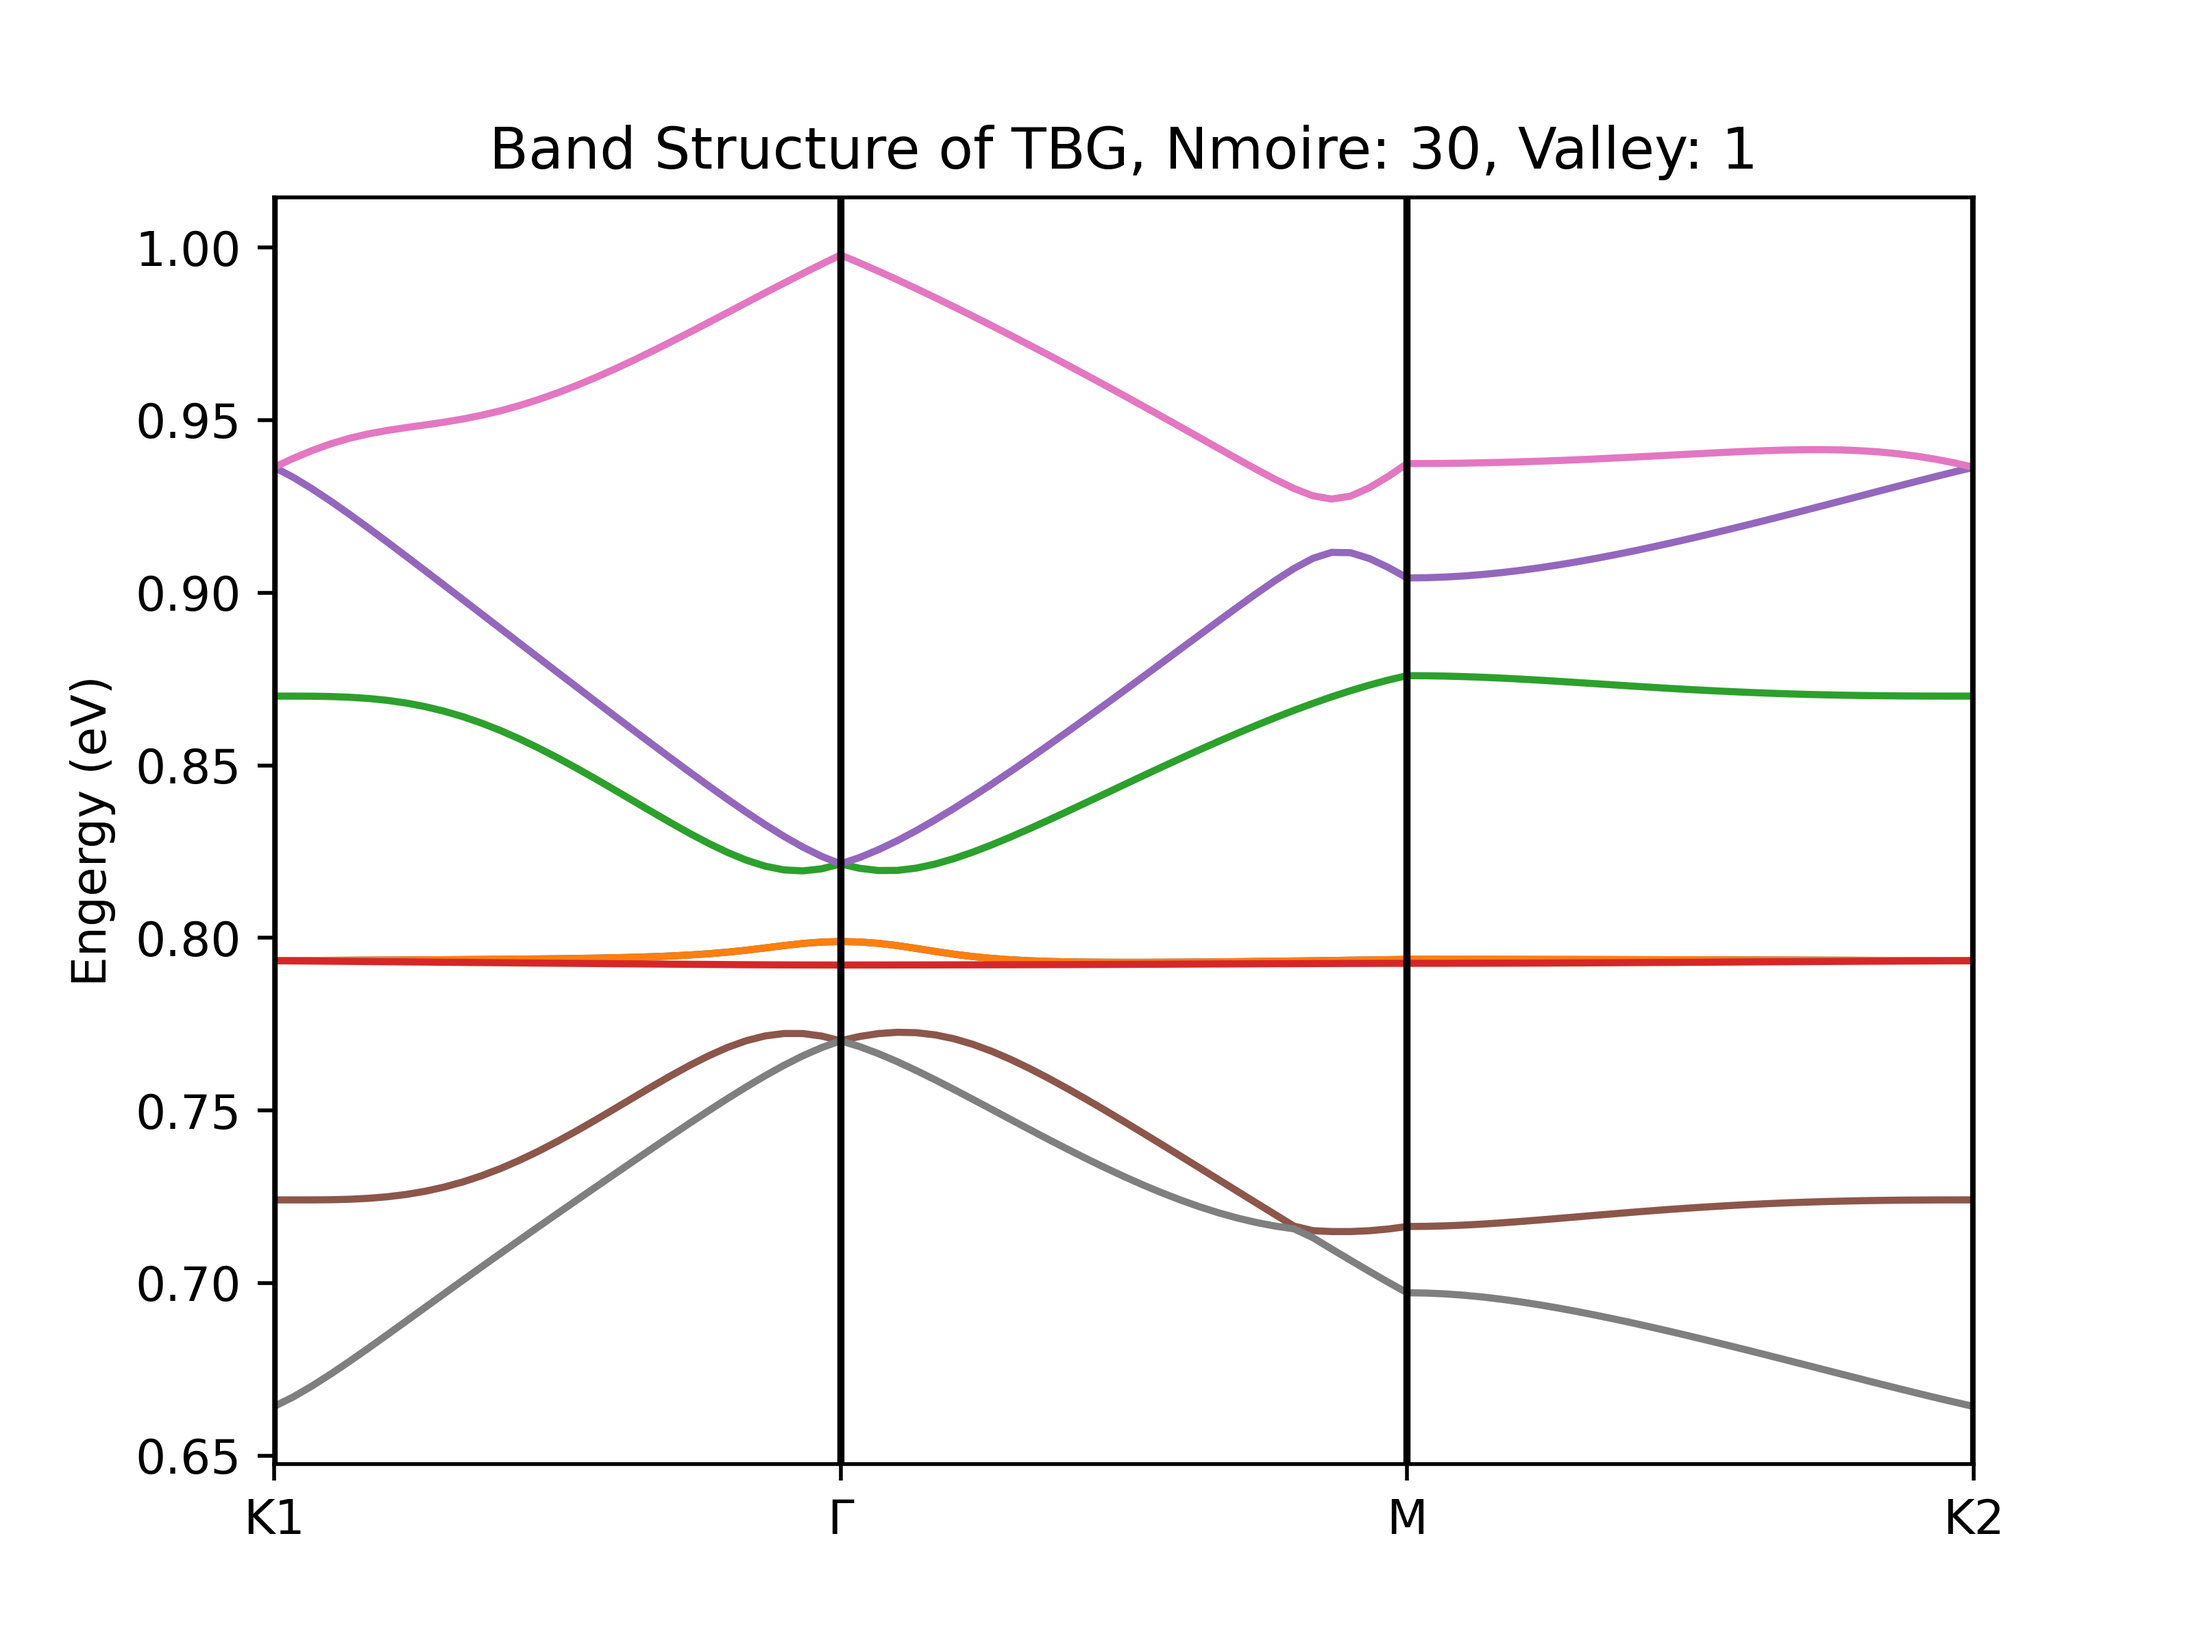
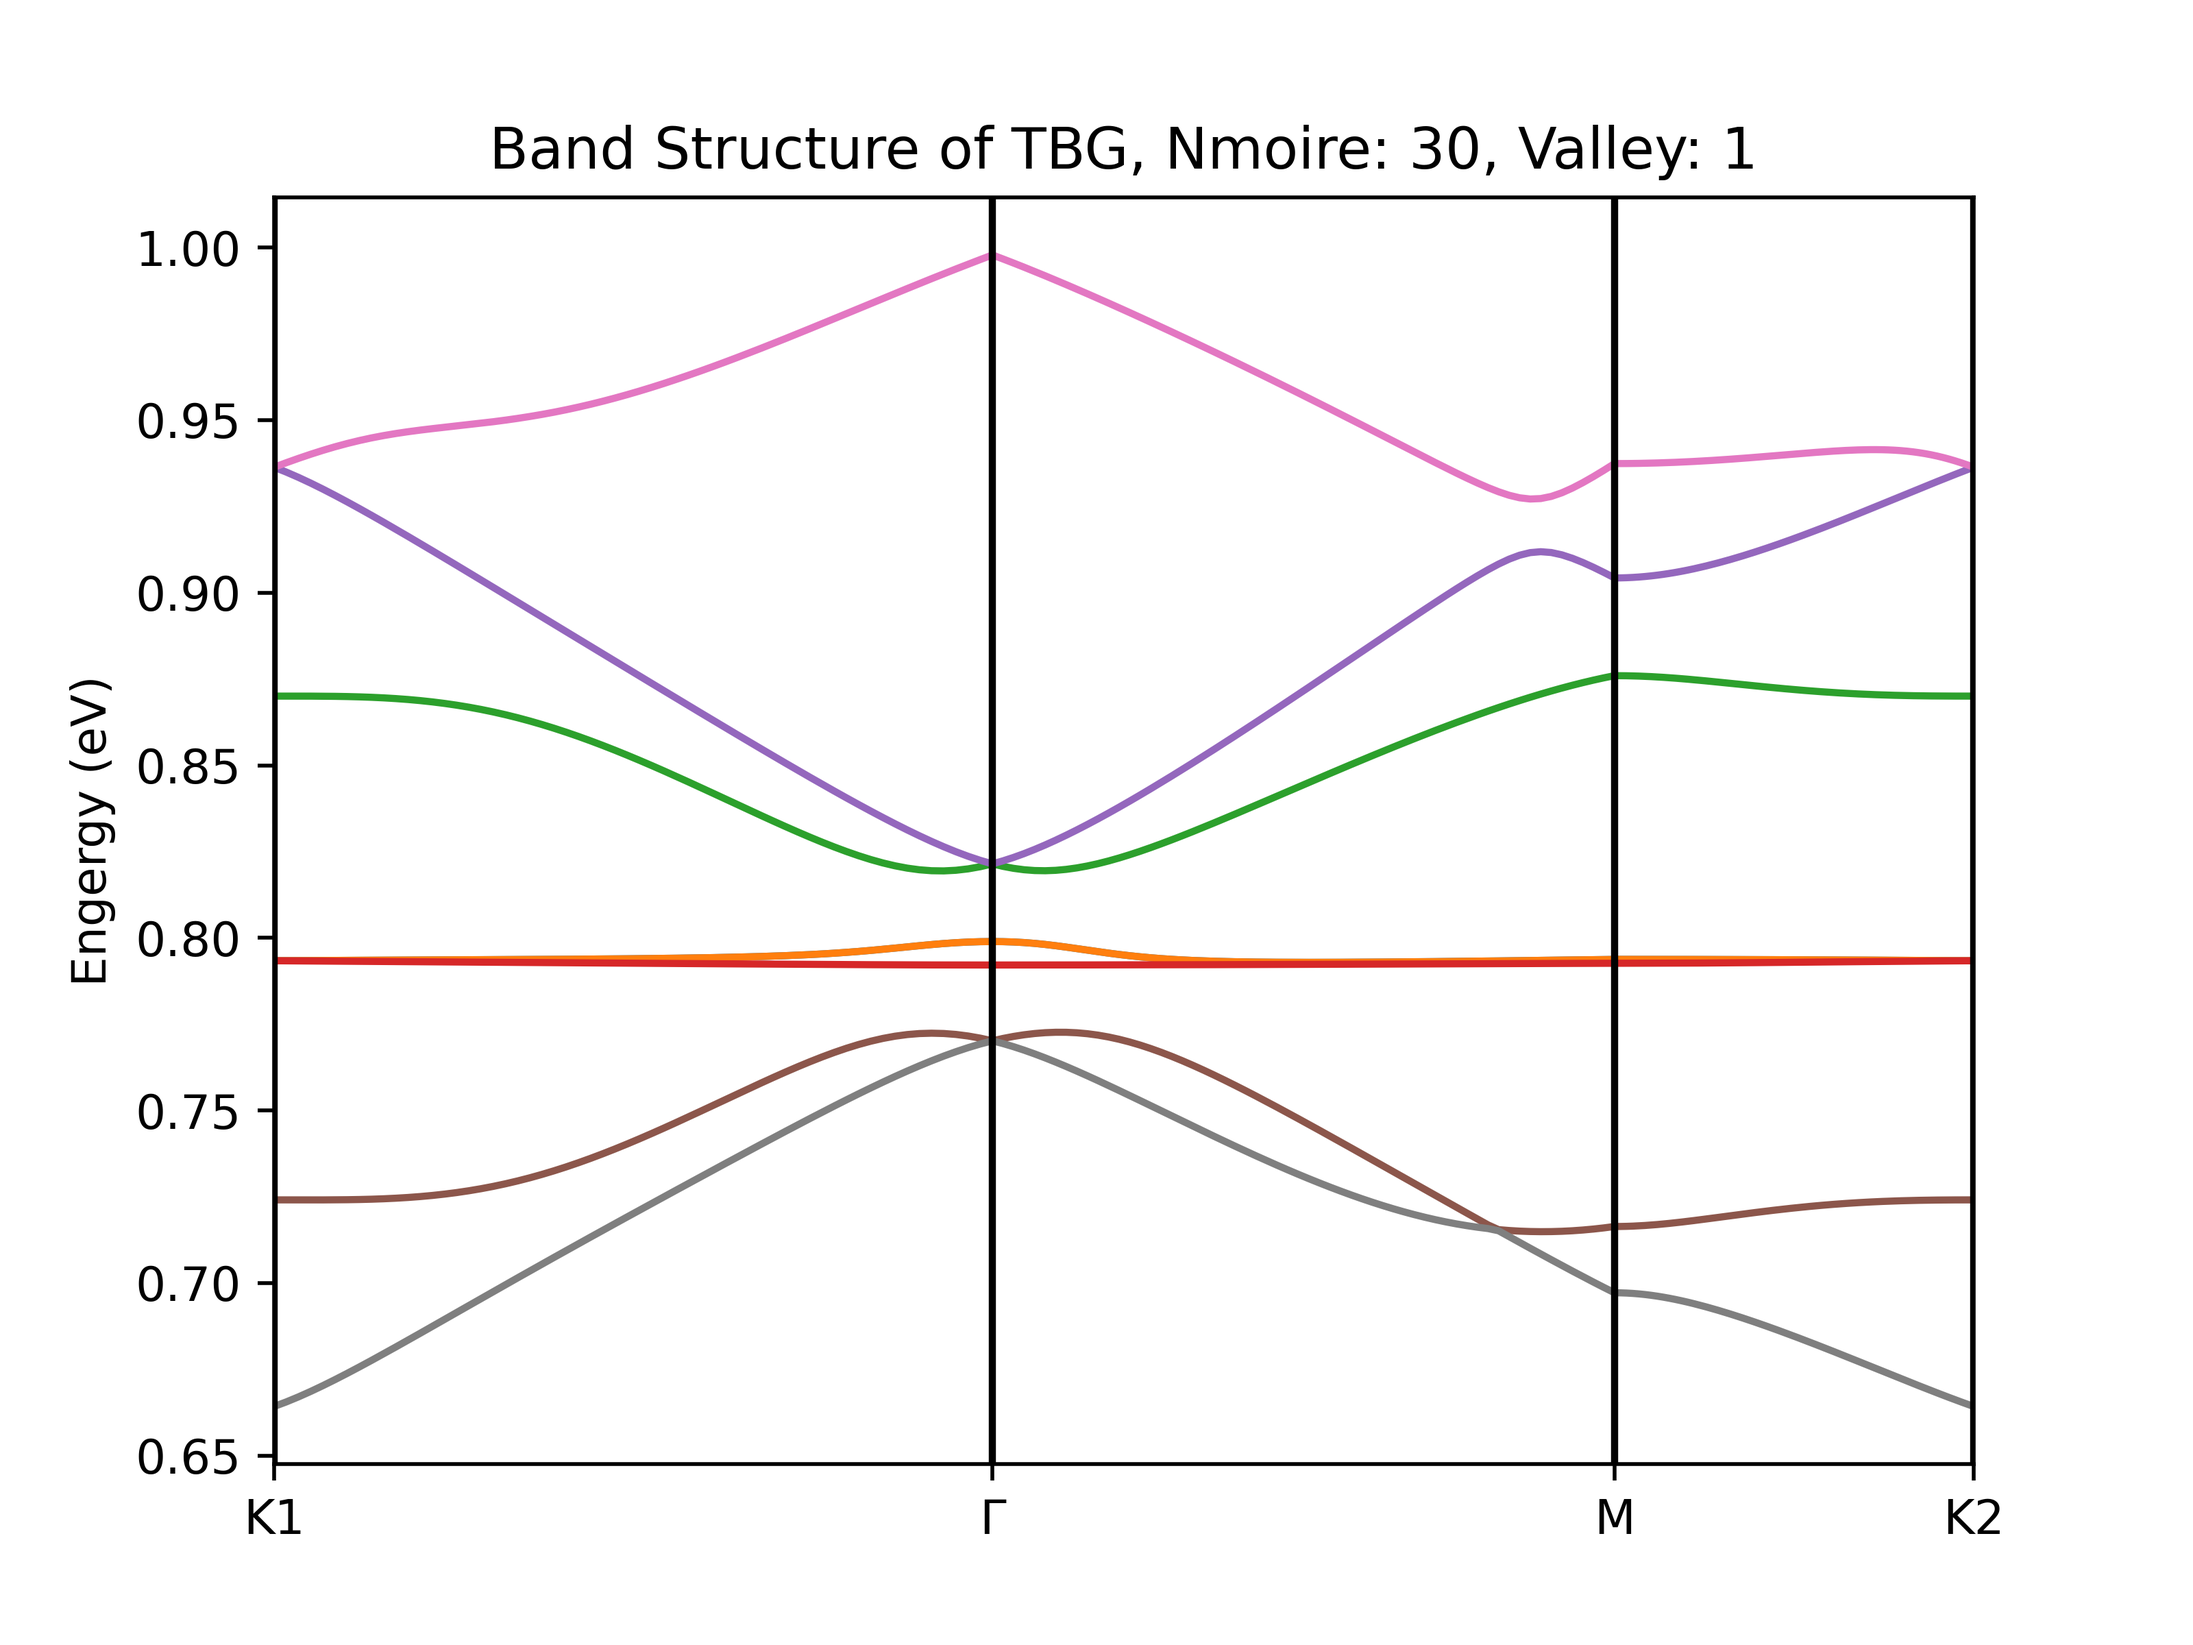
[bug fix] correct problem in kline

diff --git a/tightbinding/moire_tb.py b/tightbinding/moire_tb.py
@@ -111,7 +111,9 @@ def _set_tb_disp_kmesh(m_gamma_vec, m_k1_vec, m_k2_vec, m_m_vec, nk):
 
     num_sec = 4
     ksec = np.zeros((num_sec,2),  float)
-    kmesh = []
+    num_kpt = nk * (num_sec - 1)
+    kline = np.zeros((num_kpt),  float)
+    kmesh = np.zeros((num_kpt,2),float)
 
     # set k path (K1 - Gamma - M - K2)
     ksec[0] = m_k1_vec
@@ -121,11 +123,14 @@ def _set_tb_disp_kmesh(m_gamma_vec, m_k1_vec, m_k2_vec, m_m_vec, nk):
 
     for i in range(num_sec-1):
         vec = ksec[i+1] - ksec[i]
-        for ikpt in range(nk):
-            kmesh.append(vec*ikpt/nk + ksec[i])
-    kmesh.append(ksec[3])
+        klen = np.sqrt(np.dot(vec,vec))
+        step = klen/(nk)
 
-    return np.array(kmesh)
+        for ikpt in range(nk):
+            kline[ikpt+i*nk] = kline[i*nk-1] + ikpt * step   
+            kmesh[ikpt+i*nk] = vec*ikpt/(nk-1) + ksec[i]
+
+    return (kline, kmesh)
 
 
 def tightbinding_solver(n_moire: int, n_g: int, n_k: int, valley: int, disp=False)->tuple:
@@ -137,9 +142,9 @@ def tightbinding_solver(n_moire: int, n_g: int, n_k: int, valley: int, disp=Fals
     
     1. emesh: eigenvalues, np.array(n_k, n_bands)
     2. dmesh: eigenvectors, np.array(n_k, n_bands, n_bands)
+    3. kline: 0 when uniform sampling in 1st B.Z., k path for tb disp
     """
     
-
     
     (m_unitvec_1,   m_unitvec_2, m_g_unitvec_1, 
      m_g_unitvec_2, m_gamma_vec, m_k1_vec,    
@@ -147,6 +152,7 @@ def tightbinding_solver(n_moire: int, n_g: int, n_k: int, valley: int, disp=Fals
 
     dmesh = []
     emesh = []
+    kline = 0
     emax = -1000
     emin = 1000
     count = 1
@@ -157,7 +163,7 @@ def tightbinding_solver(n_moire: int, n_g: int, n_k: int, valley: int, disp=Fals
                                                        m_g_unitvec_2,  m_unitvec_1,         m_unitvec_2)
 
     if(disp): # k-path sampling
-        kmesh = _set_tb_disp_kmesh(m_gamma_vec, m_k1_vec, m_k2_vec, m_m_vec, n_k)
+        (kline, kmesh) = _set_tb_disp_kmesh(m_gamma_vec, m_k1_vec, m_k2_vec, m_m_vec, n_k)
     else:     # uniform sampling
         kmesh = _set_kmesh(m_g_unitvec_1, m_g_unitvec_2, n_k)
     
@@ -196,4 +202,4 @@ def tightbinding_solver(n_moire: int, n_g: int, n_k: int, valley: int, disp=Fals
     print("emax =", emax, "emin =", emin)
     print('='*100)
 
-    return (np.array(emesh), np.array(dmesh))
+    return (np.array(emesh), np.array(dmesh), kline)

diff --git a/utils/tb_disp.py b/utils/tb_disp.py
@@ -8,31 +8,28 @@ import tightbinding.moire_tb as tbtb
 
 n_moire = 30
 n_g = 5
-n_k = 30
+n_k = 60
 valley = 1
 n_band = 244
 
-(emesh, dmesh) = tbtb.tightbinding_solver(n_moire, n_g, n_k, valley, disp=True)
+(emesh, dmesh, kline) = tbtb.tightbinding_solver(n_moire, n_g, n_k, valley, disp=True)
 assert n_band == emesh[0].shape[0]
 
-# x is kline
-x = np.arange(emesh.shape[0])
-print(x)
 fig, ax = plt.subplots()
-ax.set_xticks([0, 30, 60, 90])
+ax.set_xticks([kline[0], kline[n_k], kline[2*n_k-1], kline[3*n_k-1]])
 ax.set_xticklabels(["K1", "Γ", "M", "K2"])
-ax.set_xlim(0, max(x))
+ax.set_xlim(0, kline[-1])
 
 # 7 bands
 for i in range(4):
-    plt.plot(x, emesh[:, n_band//2+i])
-    plt.plot(x, emesh[:, n_band//2-i])
+    plt.plot(kline, emesh[:, n_band//2+i])
+    plt.plot(kline, emesh[:, n_band//2-i])
 
 ax.set_ylabel("Engergy (eV)")
 ax.set_title("Band Structure of TBG, Nmoire: "+str(n_moire)+", Valley: "+str(valley))
-ax.axvline(x=0, color="black")
-ax.axvline(x=30, color="black")
-ax.axvline(x=60, color="black")
-ax.axvline(x=90, color="black")
+ax.axvline(x=kline[0], color="black")
+ax.axvline(x=kline[n_k-1], color="black")
+ax.axvline(x=kline[2*n_k-1], color="black")
+ax.axvline(x=kline[3*n_k-1], color="black")
 
 plt.savefig("../fig/band_n_"+str(n_moire)+"_v_"+str(valley)+".png", dpi=500)
